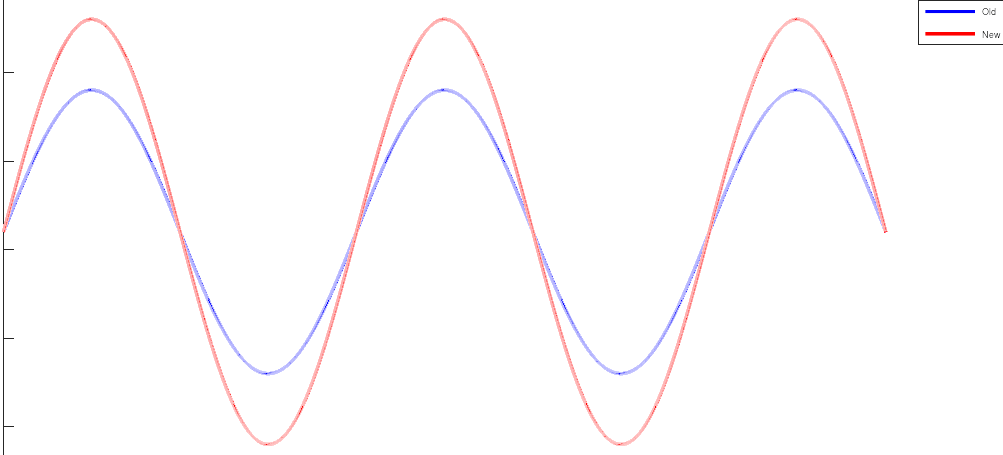
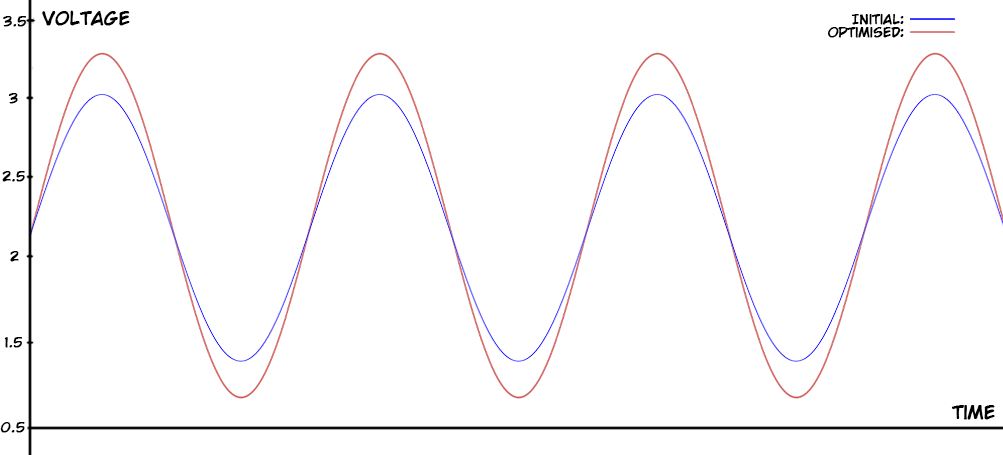
Create high res graphs

diff --git a/Presentation/SCRIPT.md b/Presentation/SCRIPT.md
@@ -6,14 +6,6 @@
 - You may have known this, but to reiterate: in our design course we are developing a home energy monitor that could measure the voltage and current across a load. The signals will be read by a microcontroller which will calculate the original signal and the power consumed by it.
 - What we hope to learn from this project
 
-# Slide ?: Project management 
-
-Using git/Trello/Slack - Branching? Pull requests? Issues?
-How to work around lockdown, remote development.
-Using pytho to generate project file.
-
-Mention Smart Energy Challenge?
-
 # Slide 1: Analog (1) (50-60s)
 
 add voltage axis
@@ -25,11 +17,11 @@ add voltage axis
 - Our optimization allowed us to reach much closer to the range of the op amp as input to the ADC. The maximum peak to peak of the signal is now 0.9V <--> 3.3V
 - This will increase the accuracy of the captured signal.
 
-# Slide 1: Analog (2)
+# Slide 2: Analog (2)
 
-Place th images side by side instead.
+Place the images side by side instead.
 
-- We had developed a peak detector. The signal from this circuit will help us perform power calculations in our microcontroller. This arises from the limitation of sampling and the quantified representation of the signal. 
+- We had developed a peak detector that triggers on waveform peaks. The signal from this circuit will help us identify peaks perform power calculations in our microcontroller. This arises from the limitation of sampling and the quantified representation of the signal. 
 
 # Slide 3: Digital (1)
 
@@ -38,8 +30,6 @@ Include a tree diagram.
 - We developed modular code, each dictating the functions for a peripheral of the microcontroller.
 
 # Slide 4: Digital (2)
-
-Fix "siginfiicant" typo.
 
 - To highlight, we chose to implement a custom print function for the purpose of transmitting data over UART. 
 
@@ -58,6 +48,15 @@ Add some arrows/lines pointing to highlights.
 - Polarized electrolyte capacitors were chosen to be used for the generation of the common 5V DC power supply. 
 - Meanwhile ceramic capacitors were used for the many signal conditioning circuits in AC applications.
 - The PCB follows a recommended design, but in particular we added a extra current sinking resistor at the output of the regulation circuit for the ensured operation of the regulator package.
+
+# Slide 7: Project management 
+
+- We used gitHub for documentation, version control (rollbacks) and collaboration remotely. This is especially necessary over lock-down. 
+- Using python to read the makefile to generate project file.
+- We used Slack for communication and zoom for virtual meet up over the lock-down period.
+- We used Trello for project management. This is critical in our collaboration as it controlled delegation of tasks.
+- We also chose to do Smart Energy Challenge.
+- Initial plan is to local host a python programme to receive information from our energy monitor through its bluetooth module.
 
 # Slide 8: End
 
